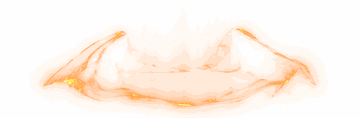
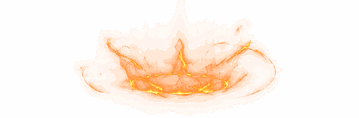
Part 3: Mantle's crown over each helped ally's head (6.84), clash shockwave and Empower aura GIFs (6.88), test n100

Changed region(s): [[0.0919, 0.2288, 0.8886, 0.9661]]

diff --git a/src/scenes/BattleScene.js b/src/scenes/BattleScene.js
@@ -32,7 +32,7 @@ import { smokeCloud } from '../smokeArt.js';
 import { impactLayers, floorLight, lightNearby, chargeUp, energyWaves, afterglow, hitLevel, FEEL, elementOf } from '../fxLayers.js'; // the layers round every effect (roadmap 18.23)
 import { planSkill, planAttack, planHusk, drawPlan } from '../preview.js'; // skills show what they will do (roadmap 18.4)
 import { playKnockback } from '../knockback.js'; // every push is drawn there (roadmap 18.1)
-import { buffCastFx, hasBuffLoop, hasBuffPart, buffLoopFx, weaponAuraFx, buffMoveFx, buffFuseFx, sfxHas, sfxInfo, sfxChannel, sfxBeam, sfxStrike, sandImpact, lightningStrike, verseAura, speedStreak, slowCast, slowAura, swiftAura, swiftTrail, furyAura, bulwarkAura, fxMode, setFxMode, fxSetActive, fxWatchFrameRate, goldDissolve, hasSonicArt, sonicSpear, sonicTrail, sonicRing, sonicImpact, earthBurst, fireball, flameBurst, burnAura, empowerAura, elementRise, enchantChant, enchantSigil, enchantLand, enchantAura, verseKinds, stepEffect, hitEffect, raiseSpike, crumbleSpike, elementOrb, elementHold, clashSparks, clashRing, decisiveBurst, fxEmitter } from '../spellArt.js';
+import { buffCastFx, hasBuffLoop, hasBuffPart, buffLoopFx, weaponAuraFx, buffMoveFx, buffFuseFx, sfxHas, sfxInfo, sfxChannel, sfxBeam, sfxStrike, sandImpact, lightningStrike, verseAura, speedStreak, slowCast, slowAura, swiftAura, swiftTrail, furyAura, bulwarkAura, fxMode, setFxMode, fxSetActive, fxWatchFrameRate, goldDissolve, hasSonicArt, sonicSpear, sonicTrail, sonicRing, sonicImpact, earthBurst, fireball, flameBurst, burnAura, empowerAura, elementRise, enchantChant, enchantSigil, enchantLand, enchantAura, verseKinds, stepEffect, hitEffect, raiseSpike, crumbleSpike, elementOrb, elementHold, clashSparks, clashRing, clashShock, decisiveBurst, fxEmitter } from '../spellArt.js';
 import { hasClashGif, loadClashGifs, pickClashGif, playClashGif } from '../clashGif.js'; // Gaha against the Bull Commander: his clash GIFs (6.62)
 import { takeHit, afterBeat, pushResist, pushExtra, autoPick, holdingSignature, riposteStep, tickBorrowed } from '../signature.js';
 import { startStep } from '../story.js';
@@ -5996,6 +5996,7 @@ export default class BattleScene extends Phaser.Scene {
         screenShake(this, 0.004, 120);
         play('clash');
         if (ring) ring.pulse(beat.winner, beat.decisive); // 16.1 step 10
+        clashShock(this, a, b, beat.decisive); // his clash shockwave GIF (6.88)
         this.clashPunch(opening || beat.decisive); // 16.1 step 9: zoom punch, plus slow-mo on big beats
         this.refreshEngagementMarks(); // the momentum bar moves
       });
@@ -8336,6 +8337,10 @@ export default class BattleScene extends Phaser.Scene {
 
   // The small tags above every unit's health bar.
   refreshStatusTags() {
+    // Mantle's crown goes when the Verse it shared ends (6.84)
+    for (const u of this.units) {
+      if (u.mantleCrown && !(u.alive && u.status && u.status.buff && u.status.buff.id === u.mantleVerse)) { u.mantleCrown.destroy(); u.mantleCrown = null; }
+    }
     for (const unit of this.units) {
       if (!unit.tagRow || !unit.tagRow.active) continue;
       unit.tagRow.removeAll(true);

diff --git a/src/spellArt.js b/src/spellArt.js
@@ -1035,12 +1035,49 @@ export function burnAura(scene, unit) {
   return embers;
 }
 
+// ---------- 21 Nov art pass ----------
+
+// Mantle's crown (6.84, Suleiman 20 Nov: "a crown that should float over those who benefit's head"). It forms over the
+// head from a ring of light (his GIF, frames 0 to 5), then hovers there (frames 6 to 8, looped) until the caller destroys
+// it (the shared Verse ends). Lives in the unit's own container so it follows him when he walks. Returns the sprite.
+const CROWN_HOVER = [6, 7, 8];
+export function crownOver(scene, unit) {
+  if (!sfxHas(scene, 'mantle') || !unit.view) return null;
+  const info = SFX.mantle, keys = sfxKeys('mantle');
+  const f = SFX_FIT('mantle');
+  const wide = bodyHeight(unit) * 0.5;   // about a head and a half across
+  const scale = f ? wide / f.w : 0.25;
+  const img = scene.add.sprite(0, -unit.topY - 4, 'fx:' + keys[0]).setOrigin(info.originX, info.originY).setScale(scale).setBlendMode(Phaser.BlendModes.ADD);
+  unit.view.add(img);
+  const anim = 'sfxloop-crown-hover';
+  if (!scene.anims.exists(anim)) scene.anims.create({ key: anim, frames: CROWN_HOVER.map((i) => ({ key: 'fx:' + keys[i] })), frameRate: 1000 / info.frameMs, repeat: -1, yoyo: true });
+  keys.slice(0, CROWN_HOVER[0]).forEach((k, i) => scene.time.delayedCall(i * info.frameMs, () => img.active && img.setTexture('fx:' + k)));
+  scene.time.delayedCall(CROWN_HOVER[0] * info.frameMs, () => img.active && img.play(anim));
+  // a slow bob, so it floats
+  scene.tweens.add({ targets: img, y: img.y - 3, duration: 900, yoyo: true, repeat: -1, ease: 'Sine.easeInOut' });
+  return img;
+}
+
+// The clash shockwave (6.88, "Shockwave for clash", 21 Nov): a ring rushing out along the ground between the two
+// fighters when a clash beat lands. strong = a decisive beat (a bigger ring).
+export function clashShock(scene, a, b, strong = false) {
+  if (!sfxHas(scene, 'clash_shock') || !a.view || !b.view) return null;
+  const cx = (a.view.x + b.view.x) / 2, cy = (a.view.y + b.view.y) / 2 + 4;
+  return sfxAt(scene, 'clash_shock', cx, cy, { depth: Math.min(a.view.depth, b.view.depth) - 0.4, size: strong ? 2.6 : 2.1 });
+}
+
 // ---------- The clean-up batch (1 Nov) ----------
 
 // Empower (roadmap 9.6): his golden aura bursts up round a fighter who spends
 // Poise to Empower a stance. Drawn on black, so it is added as light.
 export function empowerAura(scene, unit) {
-  if (!scene.textures.exists('fx:empower_aura') || !unit.view) return;
+  if (!unit.view) return;
+  // 6.88: Suleiman's "Golden Empowerment Aura" GIF (21 Nov) when it is loaded; the older still picture otherwise
+  if (sfxHas(scene, 'empower')) {
+    sfxAt(scene, 'empower', unit.view.x, unit.view.y + 8, { depth: unit.view.depth + 0.5, size: 1.1 });
+    return;
+  }
+  if (!scene.textures.exists('fx:empower_aura')) return;
   const img = scene.add.image(unit.view.x, unit.view.y + 8, 'fx:empower_aura').setOrigin(0.5, 0.92).setDepth(unit.view.depth + 0.5);
   img.setBlendMode(Phaser.BlendModes.ADD).setScale(0.35, 0.2).setAlpha(0);
   scene.tweens.add({ targets: img, alpha: 1, scaleX: 0.55, scaleY: 0.6, duration: 220, ease: 'Back.easeOut' });

diff --git a/src/kingsScene.js b/src/kingsScene.js
@@ -14,7 +14,7 @@ import { canBeCaught, startEngagement, startDuel, endDuel, isStanceDuel, shiftMo
 import { applyOffBalance, clearOffBalance, isOffBalance, applyBuff, buffOf, applyExposed, applyDisoriented, startCooldown, cooldownOf, canAfford, moveRules, moveOf } from './status.js';
 import { TURN_COST } from './turnOrder.js';
 import { KING_RULES, otherGrip, gripAttackName, maskFull, feedMask, singularityTiles, singularityCatch, canSwap, swapVerses, verseSkillsNow, fromEcho, verseSkillPower, isAttuned, echoOf } from './kings.js';
-import { sfxHas, sfxAt, sfxLoop } from './spellArt.js';
+import { sfxHas, sfxAt, sfxLoop, crownOver } from './spellArt.js';
 import { play } from './audio.js';
 import { floorLight, lightNearby } from './fxLayers.js';
 import { screenShake } from './effects.js';
@@ -527,9 +527,10 @@ export const kingMethods = {
     play('spell');
     this.time.delayedCall(420, () => {
       if (this.hasPose(caster, 'cast')) this.showPose(caster, 'cast', 1);
-      sfxAt(this, 'mantle', caster.view.x, caster.view.y + 8, { depth: caster.view.depth + 2 });
       for (const a of allies) {
-        sfxAt(this, 'mantle', a.view.x, a.view.y + 8, { depth: a.view.depth + 2, size: 0.8 });
+        // his crown floats over the head of each ally it helps, for as long as the shared Verse lasts (6.84)
+        if (a.mantleCrown) a.mantleCrown.destroy();
+        a.mantleCrown = crownOver(this, a); a.mantleVerse = verse;
         this.floatText(a, 'Mantle: ' + (spells[verse].effect || spells[verse].button), spell.color, { rise: 46 });
         if (!a.engagedWith) this.showStanding(a);
       }

diff --git a/dev/tools/make_gif_fx.py b/dev/tools/make_gif_fx.py
@@ -80,12 +80,24 @@ FILES = {
     'sfx_gale': ('Alagara/Alagara/Skill and Effects-Gale Cut/Gale cut.gif', 'keep', 0.5, 0.6),
     'sfx_gale_fury': ('Alagara/Alagara/Skill and Effects-Gale Cut/Furious Gale cut.gif', 'keep', 0.5, 0.6),
     'sfx_gale_swift': ('Alagara/Alagara/Skill and Effects-Gale Cut/Swift gale cut .gif', 'keep', 0.5, 0.6),
-    'sfx_mantle': ('Alagara/Alagara/Skill and effects- mantle/Cinematic Golden Cloak Aura Animation.gif', 'keep', 0.5, 0.85),
+    # Mantle's crown (6.84, 20 Nov; replaces the gold cloak): run with INBOX/2026-11-20b as the folder and ONLY=sfx_mantle.
+    # It forms from a ring (frames 0 to 5), then hovers (6 to 8): kingsScene loops the hover over each helped ally's head.
+    'sfx_mantle': ("Alagara's sheets updated/Alagara's sheets updated/Skill and effects- mantle/Glowing Golden Crown Animation Grid.gif", 'keep', 0.5, 0.6),
     'sfx_claim_absorb': ('Alagara/Alagara/Skill and Effects- claim/Alagara absorning the enemies buff.gif', 'keep', 0.5, 0.5),
     'sfx_claim_take': ('Alagara/Alagara/Skill and Effects- claim/claim applying to enemy effect.gif', 'keep', 0.5, 0.5),
     'sfx_umbra_orb': ('Umbra (Gadara\'s spell)/Dark Orb Formation Animation.gif', 'keep', 0.5, 0.5),        # Singularity's charge-up
+    # 21 Nov "New Effects" (6.88): folder INBOX/2026-11-21/email/unzipped, ONLY=sfx_empower,sfx_clash_shock
+    'sfx_empower': ('New Effects/New Effects/Golden Empowerment Aura Animation.gif', 'keep', 0.5, 0.8),   # a clash Empower (9.6)
+    'sfx_clash_shock': ('New Effects/New Effects/Shockwave for clash.gif', 'keep', 0.5, 0.5),             # the clash collision
     'sfx_umbra_vortex': ('Umbra (Gadara\'s spell)/Purple Gravitational Vortex Animation.gif', 'keep', 0.5, 0.75),  # Singularity resolves
 }
+
+# GIFs whose ground is a flat dark colour, not pure black: that colour is taken off first (6.88: the empower GIF is 12, 9, 6)
+GROUND = {'sfx_empower': (12, 9, 6)}
+
+def lift_ground(rgb, ground):
+    g = np.array(ground, float)
+    return np.clip((rgb.astype(float) - g) * 255.0 / (255.0 - g), 0, 255).astype(np.uint8)
 
 def to_alpha(rgb):
     """Colour to alpha from black: how bright a pixel is is how solid it is."""
@@ -142,7 +154,9 @@ def main():
         small = []
         for i, fr in enumerate(frs):
             sm = fr.resize((round(fr.width * HALF), round(fr.height * HALF)), Image.LANCZOS)
-            rgba = Image.fromarray(to_alpha(np.asarray(sm)))
+            px = np.asarray(sm)
+            if name in GROUND: px = lift_ground(px, GROUND[name])
+            rgba = Image.fromarray(to_alpha(px))
             q = rgba.quantize(255, method=Image.Quantize.FASTOCTREE)   # keeps the alpha
             q.save(FX + '%s_%d.png' % (name, i), optimize=True)
             small.append(Image.open(FX + '%s_%d.png' % (name, i)).convert('RGBA'))

diff --git a/docs/ROADMAP.md b/docs/ROADMAP.md
@@ -248,7 +248,7 @@ A towering, immovable king who fights as a bruiser. Guardian, Sovereign subset, 
 - [x] 10.40 Gadara faces the wrong way at the start of a battle (Suleiman 20 Nov 23:45 voice 1742: "at the start of the fight he's looking at the wrong direction"). CAUSE (21 Nov): his standing set in art.json had the down-left and down-right pictures the wrong way round: the enemies start in their "downLeft" picture, and his drew him turned to the right while Rabdul and the Bull turned left toward the heroes (seen in a zoomed photograph, then confirmed by showing the other picture). His battle sheet and every pose use f1 for down-left; only the standing sheet had f4. Built: the two entries swapped (art.json e5 standing, originX goes with its picture); the start now shows him facing the heroes like the others. Test: n86 (the standing and battle sets must agree); n86, n93, n94, n95 pass.
 - [x] 10.41 Claim must take an enemy's buff for Alagara himself (Suleiman 21 Nov 01:04 voice 1743: "if an enemy has a buff, like Bloodied, Alagara is supposed to be able to take that buff for himself as part of his survival kit... it's what gives him the upper hand in the absence of Layra"). Baiyee 21 Nov: check it; fix if not. CHECKED 21 Nov: Claim took a Verse or an Enchanted weapon (a "blessing") from the unit beside him, ally or foe, and nothing else. It did NOT take Bloodied (the Bull's stacks, a status on the unit, not a Verse): a Bloodied fighter was not even a Claim target. Built: Bloodied stacks are now a blessing too (a Verse is taken first, then Enchant, then Bloodied). They leave the foe and are Alagara's for 2 turns: each stack takes a point off every hit on him, in a clash or not, no new stacks while borrowed (signature.js takeHit and tickBorrowed; the stacks show on his card as BLOODIED n). Why this rule: Bloodied only works for a Warlord in his Press stance, so the plain copy would do nothing for him; the borrowed version keeps the idea (pain makes him tougher) in a form he can use. NOT done, logged here: Gaha's Riposte stacks and Counter-Press Charge are not taken yet; and Claim from nature, from the tile, is 13.72. Test: n87 (aim at a Bloodied fighter, stacks move, 8 becomes 5, no stacks means a plain 8); the run-down checked on signature.js directly.
 - [x] 10.42 LOGGED ONLY, NOT BUILT: Alagara's sprite size needs adjusting across his forms (Suleiman 21 Nov 02:15). Needs the ruler (18.2) and his new sheets (6.82). Built 21 Nov with 6.83 and 1.85: one size across all his forms, set by eye (dev/tools/make_kings.py HAND_ALAGARA).
-- [ ] 10.43 LOGGED ONLY, NOT BUILT: Mantle's effect changed to a crown that floats over the head of whoever benefits (Suleiman 20 Nov 15:36: "updated alagara's folder, changed the effect for mantle to a crown"). The folder has not reached the inbox (6.82).
+- [x] 10.43 LOGGED ONLY, NOT BUILT: Mantle's effect changed to a crown that floats over the head of whoever benefits (Suleiman 20 Nov 15:36: "updated alagara's folder, changed the effect for mantle to a crown"). The folder has not reached the inbox (6.82). Built 21 Nov as 6.84.
 - [ ] 10.44 The kings' clash pose sheets (close-up Press, Guard and Slip like Gaha's, 9.9): looked for in the 20 and 21 Nov files (see Files received). Not there; see the list in this item when the batch is done.
 
 ### Gadara the Greater, REVISED 19 Nov ("Gadara the Greater, Kit Sheet (Basic Attack Revision)", chat file 1676, 5 pages; read 19 Nov; copy in INBOX/2026-11-19/x). This replaces the numbers in 10.7 to 10.16 where they differ; it is now the version to build. Suleiman (voice 1680): "he had too many active skills", so Twin Prongs is gone.
@@ -586,11 +586,11 @@ Status art batch notes: icons in public/art/icons (64x64), cards in public/art/c
 - [ ] 6.81 Sudeen's new sheets (Suleiman 20 Nov 07:07 "about to send sudeen's updated sheets", email, two archives, contact sheet INBOX/2026-11-20/contact_sudeen_20nov.jpg): Expression Sheet Grid (nine heads: neutral, happy, angry, hurt, damaged and pained, determined, surprised, confident, thoughtful; 1254 square); Isometric Herb Pouch Toss (four views on a tile; NE, NW, SE, SW; 1448 by 1086); Isometric Slash Action Poses (four views on a tile, scimitar out, shield up; 1448 by 1086); Four-View Warrior Sheet (1254 square, four big figures, scimitar and shield shown, not on a tile); two bash sheets ("bashing with his shield" and its "mirrored pov", 1447 by 1087, eight small figures each on a tile). All plain white grounds (corner pixels 252 to 254). They add: a Herb toss pose (1.12), slash poses and a battle stance with the scimitar showing (this is probably the answer to 1.62), his faces (portrait, hurt, shout, as for Kofi in 6.54), and bash frames (the 1.66 note says Sudeen's bash sheets are four frames of one move). Not cut. His voice note 1728 asks if the sheets are in the game: no, they are only logged (and Gaha's new sheets, 6.72, are not wired either, so Gaha still shows old pictures).
 - [ ] 6.82 Alagara's redo sheets, promised, NOT RECEIVED (Suleiman 20 Nov 15:36 to 21 Nov 08:51, voice 1758 and 1763): a changed Mantle effect (crown) and missing transformed-form sheets in his folder (20 Nov 15:36; "we agreed his swift design is used for his stone form"); a better battle stance (08:45, a picture "omitted" in the export) and a dodge sheet, the game uses older ones; his base look redrawn to match his infused forms (gold fastenings on the scarf and ceremonial clothes; the battle stance in the game is his early design); new neutral sheets; Layra's blessing sheets; expression sheets for Layra, Gadara, Alagara and the Thief. Nothing arrived in INBOX/2026-11-21 except six voice notes. RECEIVED after all (Baiyee 21 Nov): INBOX/2026-11-20b (Alagara's sheets updated.7z, 20 Nov 20:31) and the 21 Nov email newsheetsbrother.zip (5 archives). Split into 6.83 to 6.88, 1.85, 10.44 and 18.52; see Files received.
 - [x] 6.83 Alagara's newest sheets everywhere (20 and 21 Nov, 6.82): the 21 Nov neutral turnaround (gold fastenings on the scarf) for standing, the 21 Nov "Ornate Saber Action Sheet" and its mirror ("Attack sheet alternate perspective for missing cardinal points") for the battle stance (Suleiman 21 Nov 08:45: the game used his old one), the 20 Nov dodge sheet, and full Fury and Swift sets (neutral, battle stance, guard, dodge, wind-up, attack); Stone uses the Swift design (Suleiman 20 Nov 15:36). Sized with the ruler across all forms (closes 10.42), facing check run. Built 21 Nov (part 2): dev/tools/kings_sheets.py and make_kings.py (make_kings.py <work> alagara cuts him alone). Standing = the 21 Nov neutral turnaround, battle stance (ready, wind-up, Drawn Blade) = the saber sheet (its mirror is not needed: the game mirrors), dodge = the 20 Nov sheet; Fury: neutral, battle stance, wind-up, attack, guard, dodge; Swift: neutral, battle stance, attack, guard, dodge; Stone uses every Swift picture (buffed.stone, buffPoses.stone; its own effects still play). The Swift folder's "Winding up attack" is the Fury file again (same bytes), so his Swift battle stance is the Swift wind-up. A new floor wiper (wipe_tile) takes off the tile and shadow some 20 Nov sheets kept. Facing check: on the dodge, Fury ready and guard, Swift ready and guard sheets the two front figures point the same way, so only the down-left view is cut and the game mirrors it; all pass. Still the 31 Oct drawn lunge for his plain attack (no attack sheet in the new look). Before and after: Fabien Blueprint/ART PASS 2026-11-21/1.
-- [ ] 6.84 Mantle's crown (closes 10.43): "Glowing Golden Crown Animation Grid.gif" (9 frames, 150 ms) floats over the head of every fighter Mantle helps, in place of the gold cloak GIF.
+- [x] 6.84 Mantle's crown (closes 10.43): "Glowing Golden Crown Animation Grid.gif" (9 frames, 150 ms) floats over the head of every fighter Mantle helps, in place of the gold cloak GIF. Built 21 Nov (part 3): make_gif_fx.py cuts the crown into the old sfx_mantle slot; spellArt.crownOver plays it forming over the head (frames 0 to 5) then loops the hover (6 to 8) with a slow bob, inside the ally's own container, about a head and a half wide (by body height). Over each ally Mantle helps, not over Alagara; refreshStatusTags takes it away when that Verse ends. Test n100.
 - [ ] 6.85 The kings' victory sheets (21 Nov email): Alagara's and Gadara's four-view triumph turnarounds, wired as their victory poses at the end of a won battle.
 - [ ] 6.86 Layra's blessing sheets, updated (21 Nov email): floating neutral, concentrating while floating, releasing while floating (four views each); they replace her blessed look.
 - [ ] 6.87 Expression sheets (21 Nov email): Alagara and Gadara (five heads each), Leol (five) and the Thief (a full sheet). Calm, hurt and battle cry faces cut for all four; the kings' stand-in portraits (10.36, cut from their standing pictures) replaced. Leol and the Thief are not in the game (Phase 19): their faces are cut and kept for later.
-- [ ] 6.88 New effects (21 Nov email "New Effects"): "Golden Empowerment Aura Animation.gif" (6 frames, 160 ms) and "Shockwave for clash.gif" (9 frames, 90 ms). Match each to its skill or list it.
+- [x] 6.88 New effects (21 Nov email "New Effects"): "Golden Empowerment Aura Animation.gif" (6 frames, 160 ms) and "Shockwave for clash.gif" (9 frames, 90 ms). Match each to its skill or list it. Built 21 Nov (part 3): "Shockwave for clash" = sfx_clash_shock, played on the ground between the two fighters each time a clash beat lands (bigger on a decisive beat), with the old gold ring. "Golden Empowerment Aura" = sfx_empower, matched by name to the clash Empower (spending Poise: "his golden aura bursts up", 9.6); it replaces the old still picture. Its ground was dark brown (12, 9, 6), not black: make_gif_fx.py GROUND takes it off first. If Suleiman meant the aura for something else, it is one line to move. Test n100.
 
 ## Phase 7: clash finishers (approved 29 Oct)
 - [ ] 7.1 Win a clash at +3 against a foe under a quarter health: the character's own finishing move (cut-in, the move, foe goes down) instead of the normal decisive hit. Needs one finishing-move sheet per character from Suleiman (he's fine with that).
